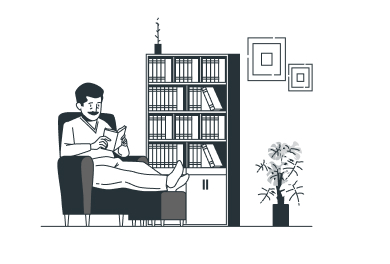
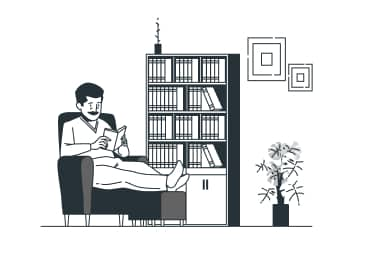
Оптимизация картинок+якоря

diff --git a/index.html b/index.html
@@ -4,18 +4,18 @@
     <meta charset="UTF-8" />
     <meta http-equiv="X-UA-Compatible" content="IE=edge" />
     <meta name="viewport" content="width=device-width, initial-scale=1.0" />
-    <title>Document</title>
+    <title>Britlex</title>
   </head>
   <body>
     <!-- ?Hesder -->
     <header>
       <a href="./index.html"> <span>Brit</span><span>lex</span></a>
       <ul>
-        <li>Home</li>
-        <li>Skills</li>
-        <li>About Us</li>
-        <li>Pricing</li>
-        <li>Contacts</li>
+        <li><a href="">Home</a></li>
+        <li><a href="#skills">Skills</a></li>
+        <li><a href="#about">About Us</a></li>
+        <li><a href="#pricing">Pricing</a></li>
+        <li><a href="#contact">Contacts</a></li>
       </ul>
       <button type="button">Let’s Talk</button>
     </header>
@@ -33,7 +33,7 @@
       </section>
       <!-- ?Section 2 -->
       <section>
-        <h2>Skills</h2>
+        <h2 id="skills">Skills</h2>
         <ul>
           <li>
             <img
@@ -116,7 +116,7 @@
       </section>
       <!-- ?Section 3 -->
       <section>
-        <h2>About Us</h2>
+        <h2 id="about">About Us</h2>
         <p>
           The model offers a framework for discussing problems related to the
           user's experience, as well as possible ways and means of solving them.
@@ -146,7 +146,7 @@
       </section>
       <!-- ?Section 4 -->
       <section>
-        <h2>Pricing</h2>
+        <h2 id="pricing">Pricing</h2>
         <ul>
           <li>
             <img src="./images/online.jpg" alt="Online course" width="426" />
@@ -182,13 +182,13 @@
       </section>
       <!-- ?Section 5 -->
       <section>
-        <img src="./images/contact.jpg" alt="Contact" />
-        <h2>Contact Us</h2>
+        <h2 id="contact">Contact Us</h2>
+        <img src="./images/contact.jpg" alt="Contact" width="425" />
         <p>
           Discover your current English level by taking our free online English
           test. Sign up to our newsletter for learning tips and free resources
         </p>
-        <input type="text" />
+        <input type="text" name="Enter Your E-mail" />
         <button type="submit">Subscribe</button>
       </section>
     </main>
